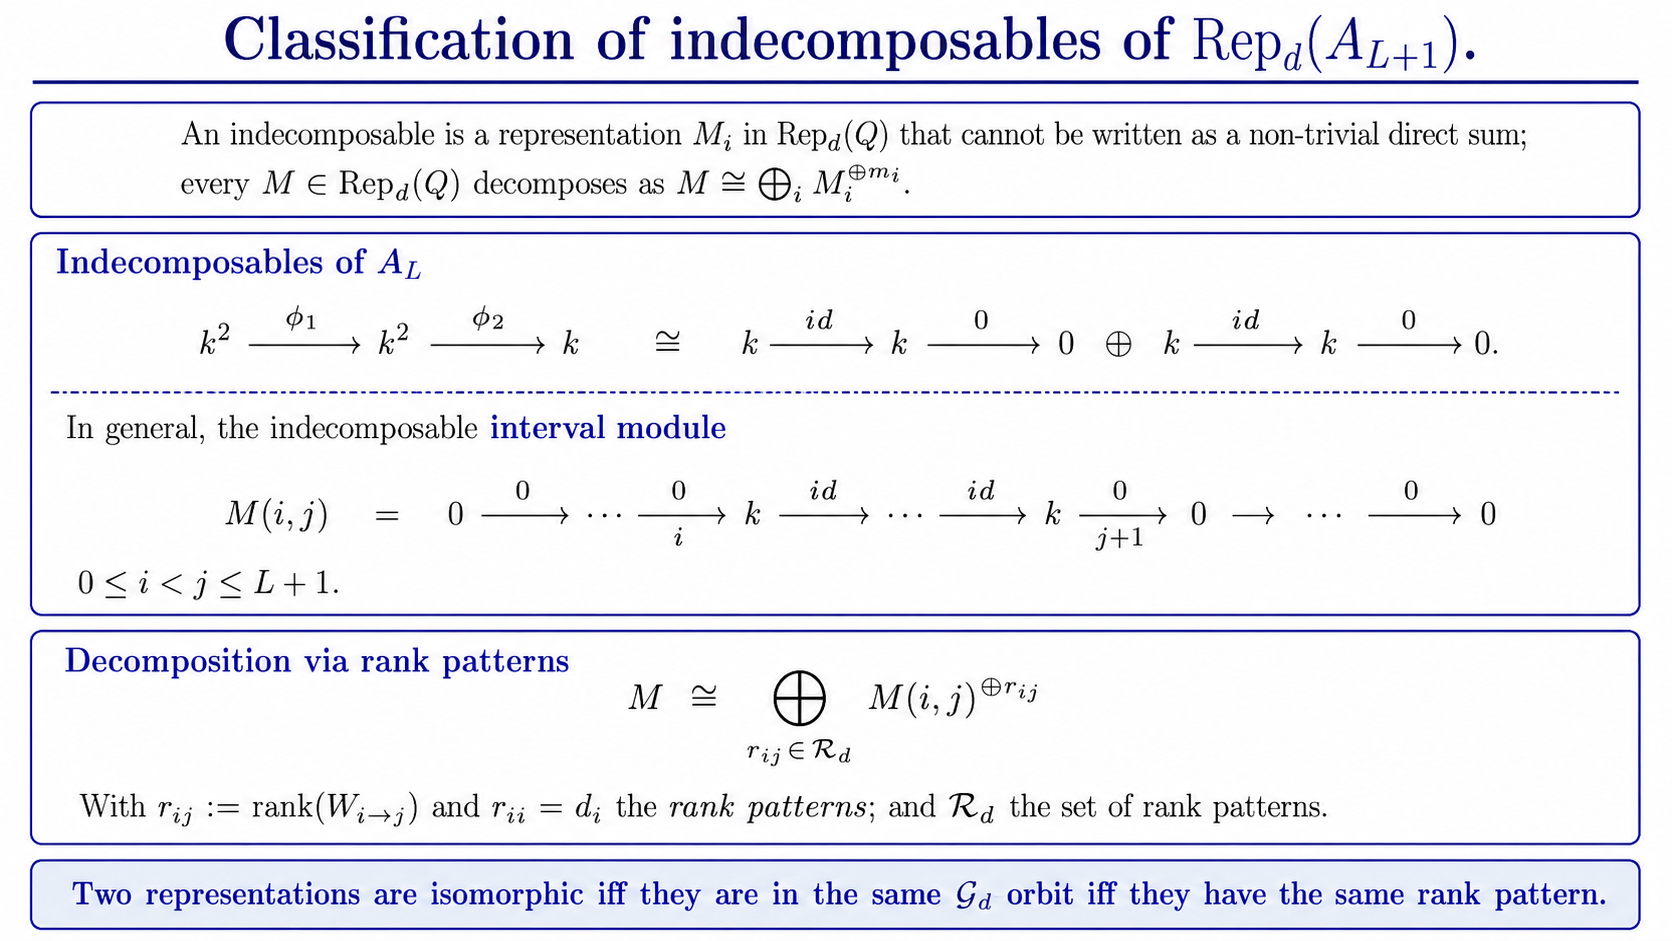
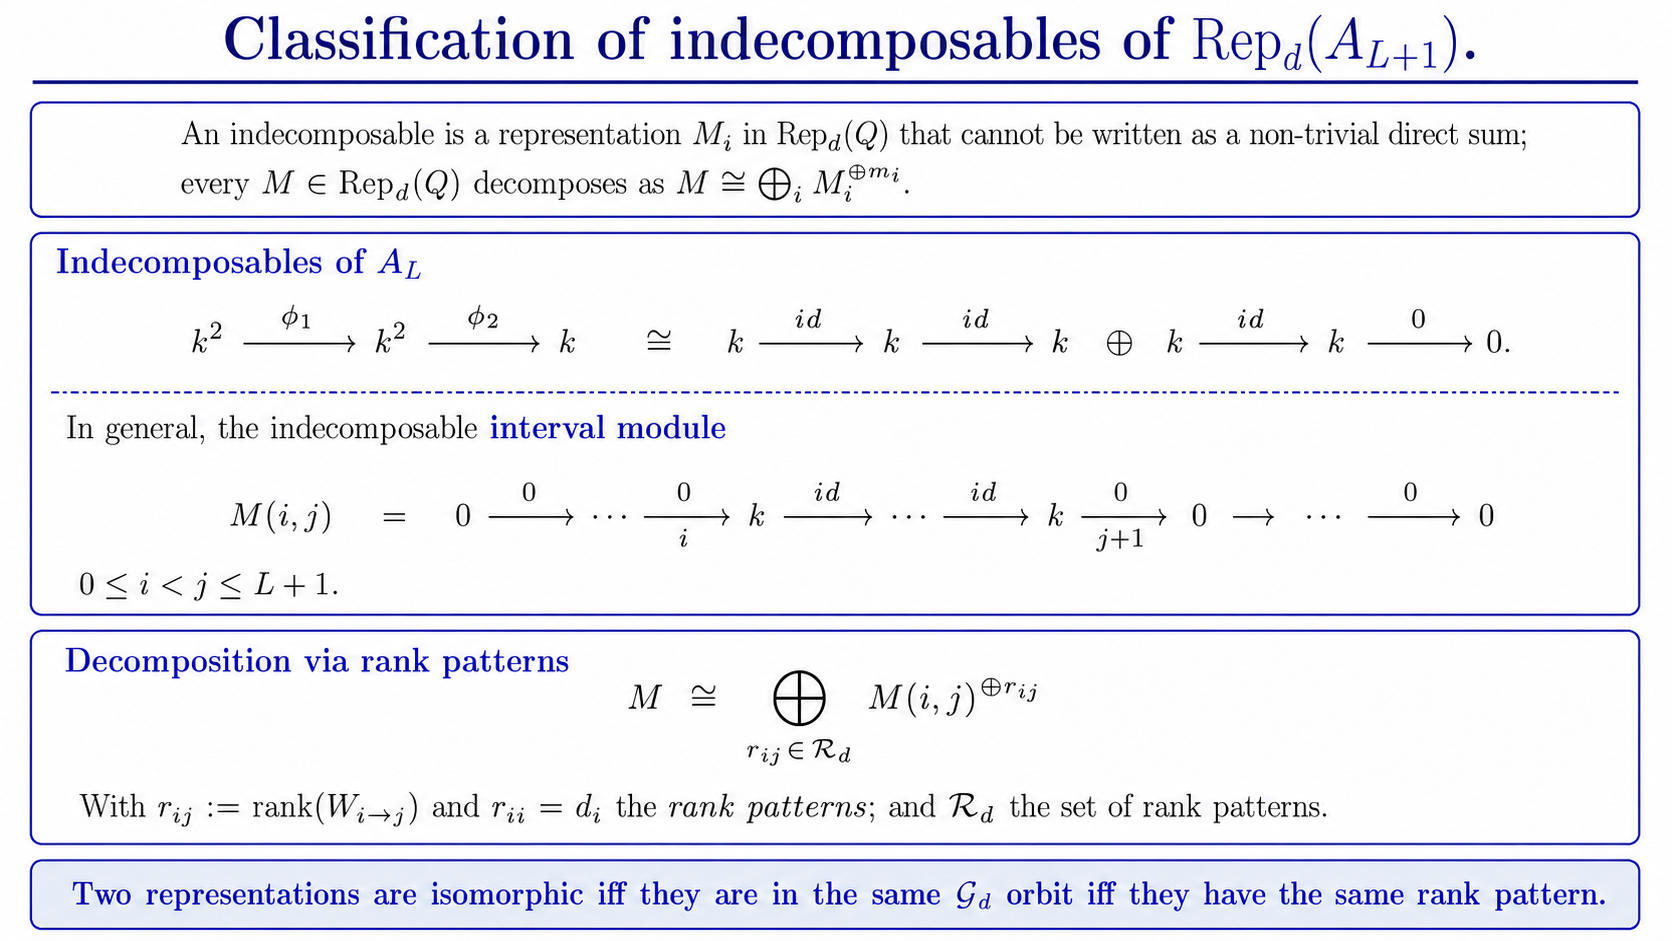
talk draft

diff --git a/geometry_dynamics.tex b/geometry_dynamics.tex
@@ -16,10 +16,10 @@
 \begin{frame}{Motivation 1: Implicit biases of the training process have safety implication}
 \begin{itemize}
     \item Parameter $\theta\in \Omega$, input-output data $(Y,X)\sim P$, Neural network $f(\theta, x)$
-    \item Degenerate functions: on input $x$ many parameters are compatible with low loss $f(\theta,x)\approx f(\theta',x)$ 
+    \item Degenerate functions: on samples $x$ many parameters are compatible with low loss $f(\theta,x)\approx f(\theta',x)$ 
     \item Indinstiguishable on training and eval data
     \item However for some out of distribution input $x_o$, model $f(\theta,x_o)$ is unsafe and $f(\theta',x_o)$ is safe
-    \item The data, hyperaparameters, optimization determine if training favour safe or unsafe model
+    \item The data, hyperaparameters, learning process determine if training favour safe or unsafe model
 \end{itemize}
 
 \end{frame}
@@ -386,7 +386,7 @@ With $r_{ij} := \operatorname{rank}(W_{i\to j})$ and $r_{ii}=d_i$ the \textit{ra
 \end{comment}
 \begin{frame}{Stratification of the detreminental variety}
 \begin{block}{Orbits are parameterized by rank patterns}
-We have $G_d$ action over $\Sigma_d^r$ hence:
+We have $G_d$ action over $\Sigma_d^r$ hence stratification:
 \[
 \Sigma_d^r = \bigsqcup_{\rho\in R^r_d} \mathcal O_{\rho}
 \] 
@@ -411,7 +411,6 @@ In general we only have:
 \operatorname{RLCT}(\mathcal{L}^{-1})(0)  \leq \frac{1}{2}\text{codim}_{\text{Rep}_d}(\mathcal{L}^{-1}(0))
 \]
 \end{block}
-DLN are ``midly'' singular.\\
 Ref: \textit{Lehalleur, Simon Pepin, and Richárd Rimányi. "Geometry of fibers of the multiplication map of deep linear neural networks." arXiv preprint arXiv:2411.19920 (2024).}
 \end{frame}
 \begin{frame}{Discussion}
@@ -424,13 +423,20 @@ Under assumptions of full rank and non degenerate data:
         \item The Codimension of the global minima is twice the RLCT
     \end{itemize}
 \end{block}
-\begin{block}{Open problems}
-    \begin{itemize}
-        \item Loss landscapes of non linear networks (ReLU)
-        \item Geometric invariants for non linear networks
-        \item Combinatorial description of all critical points (work in progress)
-    \end{itemize}
-\end{block}
+\end{frame}
+\begin{frame}{References}
+\begin{itemize}
+    \item Kenji Kawaguchi. Deep learning without poor local minima \textit{Advances in neural
+information processing systems}, 29, 2016.
+    \item El Mehdi Achour, François Malgouyres, and Sébastien Gerchinovitz. The loss
+landscape of deep linear neural networks: a second-order analysis. \textit{Journal of
+Machine Learning Research}, 25(242):1–76, 2024.
+    \item Anna Choromanska, Mikael Henaff, Michael Mathieu, Gérard Ben Arous, and
+Yann LeCun. The loss surfaces of multilayer networks. In \textit{Artificial intelligence
+and statistics}, pages 192–204. PMLR, 2015.
+    \item Lehalleur, Simon Pepin and Rim{\'a}nyi, Rich{\'a}rd. Geometry of fibers of the multiplication map of deep linear neural networks, arXiv preprint arXiv:2411.19920, 2024.
+    \item Chen, Po and Jiang, Rujun and Wang, Peng. A Complete Loss Landscape Analysis of Regularized Deep Matrix Factorization, arXiv preprint arXiv:2506.20344, 2025.
+\end{itemize}
 \end{frame}
 \begin{frame}
     \begin{center}
@@ -648,6 +654,23 @@ S(W)
 
 \end{frame}
 \end{comment}
+\begin{frame}{References}
+    \begin{itemize}
+        \item Menon, Govind. The geometry of the deep linear network. Symposium on Probability and Stochastic Processes. Cham: Springer Nature Switzerland, 2023.
+        \item Sibylle Marcotte, R\'emi Gribonval, and Gabriel Peyr\'e. Abide by the law and
+follow the flow: Conservation laws for gradient flows. \textit{Advances in neural
+information processing systems}, 36:63210–63221, 2023.
+    \item Sanjeev Arora, Nadav Cohen, Noah Golowich, and Wei Hu. \textit{A convergence
+analysis of gradient descent for deep linear neural networks}. arXiv preprint
+arXiv:1810.02281, 2018
+    \item Arthur Jacot, Franck Gabriel, and Cl\'ement Hongler. Neural tangent kernel: Con-
+    vergence and generalization in neural networks. \textit{Advances in neural information
+    processing systems}, 31, 2018.
+    \item Jeremy M Cohen, Alex Damian, Ameet Talwalkar, J Zico Kolter, and Jason D
+    Lee. Understanding optimization in deep learning with central flows. arXiv
+    preprint arXiv:2410.24206, 2024
+    \end{itemize}
+\end{frame}
 %----------Rich Regime for DLNs-----------
 \begin{frame}{Rich regime in DLNs}
 Assume whitened inputs $\Sigma_X = I$ and $\Sigma_{YX} = U S V^{\top}$. Define a 2-layer DLN layerwise-modes as:
@@ -666,6 +689,7 @@ Assuming gradient flow on the balanced manifold, using the self-consistent GF eq
     - 2\sum_{\beta\neq\alpha} \left(w_{\alpha\beta}\right)^2 .
 \end{equation*}
 \end{frame}
+\begin{comment}
 \begin{frame}{Rich regime in DLNs}
 We neglect the cross-mode terms $w_{\alpha\beta}$ (weights are aligned).
 \begin{block}{Logistic feature learning}
@@ -679,6 +703,8 @@ Solving this ODE for $w(t):=w_{\alpha}$ gives:
 \end{equation*}
 \end{block}
 \end{frame}
+\end{comment}
+\begin{comment}
 \begin{frame}{Time scale of learning in the rich regime}
  The elapsed time to go from $w_0$ to $w_f$ is
 \[
@@ -697,6 +723,16 @@ t=\frac{1}{L} \left[ \frac{1}{s^{2}} \ln\!\left(\frac{w_f\,(s - w_0)}{w_0\,(s - 
 \end{itemize}
 \end{block}
 \end{frame}
+\end{comment}
+\begin{frame}[plain]
+\centering
+\includegraphics[width=\textwidth,height=\textheight,keepaspectratio]{figures/rich_regime.png}
+\end{frame}
+\begin{frame}[plain]
+\centering
+\includegraphics[width=\textwidth,height=\textheight,keepaspectratio]{figures/linear_regime.png}
+\end{frame}
+\begin{comment}
 %----------Lazy Regime for DLNs-----------
 \begin{frame}{Linear regime in DLNs}
 \begin{block}{Proposition}
@@ -715,12 +751,43 @@ The time scale of learning is mostly fixed by the NTK at initialization:
 \end{equation*}
 No stagewise learning, the structure of the data barely influences the training dynamics, behaves like a linear network.
 \end{frame}
+\end{comment}
+\begin{frame}{References}
+    \begin{itemize}
+        \item Saxe, Andrew M., James L. McClelland, and Surya Ganguli. A mathematical theory of semantic development in deep neural networks. \textit{Proceedings of the National Academy of Sciences} 116.23 (2019): 11537-11546.
+        \item Jacot, Arthur, et al. Saddle-to-saddle dynamics in deep linear networks: Small initialization training, symmetry, and sparsity. \textit{arXiv preprint} arXiv:2106.15933 (2021).
+        \item Dominé, Clémentine CJ, et al. From lazy to rich: Exact learning dynamics in deep linear networks. \textit{arXiv preprint} arXiv:2409.14623 (2024)
+        \item Zhang, Yedi, Andrew Saxe, and Peter E. Latham. Saddle-to-Saddle Dynamics Explains A Simplicity Bias Across Neural Network Architectures. \textit{arXiv preprint} arXiv:2512.20607 (2025).
+        \item Zhenfeng Tu, Santiago Tomas Aranguri Diaz, and Arthur Jacot. Mixed dynamics
+in linear networks: Unifying the lazy and active regimes. \textit{Advances in Neural
+Information Processing Systems}, 37:106059–106104, 2024.
+    \end{itemize}
+\end{frame}
+\begin{frame}{Discussion}
+    \begin{itemize}
+    \item DLNs are mathematically tractable and informative about deep learning
+    \item Useful to understand implicit biases from depth, scale, overparametrization, hyperparameters, optimizers
+    \item Symmetries and conserved quantities are central
+    \item Study different regimes of training dynamics (Rich vs Lazy regime)
+    \item However, very limited: cannot learn non-linear compositional structure
+\end{itemize}
+\end{frame}
+\begin{frame}{Research directions}
+    \begin{itemize}
+        \item Generalizing volume formula to rank deficient case for saddle to saddle
+        \item Toy models of hierarchical learning (non linearities)
+        \item Combinatorial description of all critical points (work in progress)
+        \item Loss landscapes of non linear networks (ReLU)
+        \item Geometric invariants for non linear networks
+    \end{itemize}
+\end{frame}
+\begin{frame}
+    Stuff that we did not talk about
+\end{frame}
 \begin{frame}
     TODO
 \begin{itemize}
-    \item References Slides
     \item Langevin Dynamics slide
-    \item Discussion Slide
     \item Make nicer slides for intro
 \end{itemize}
 \end{frame}